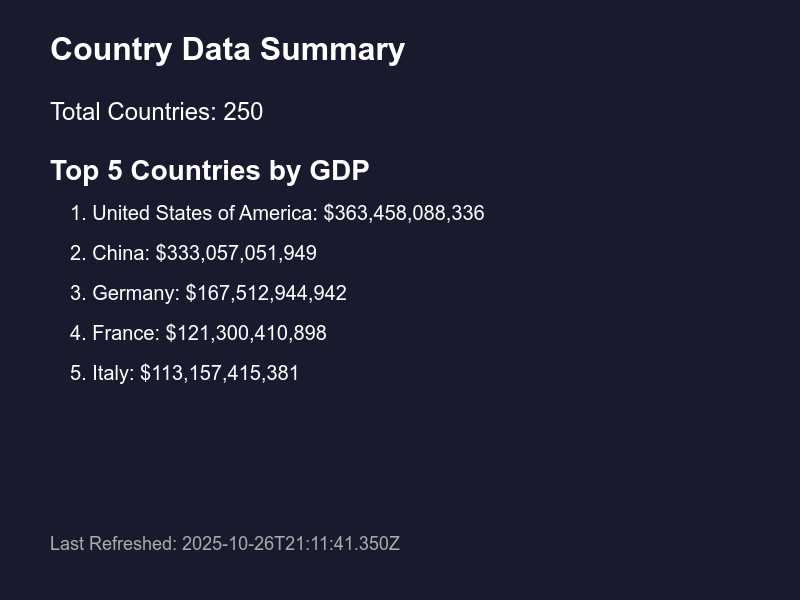
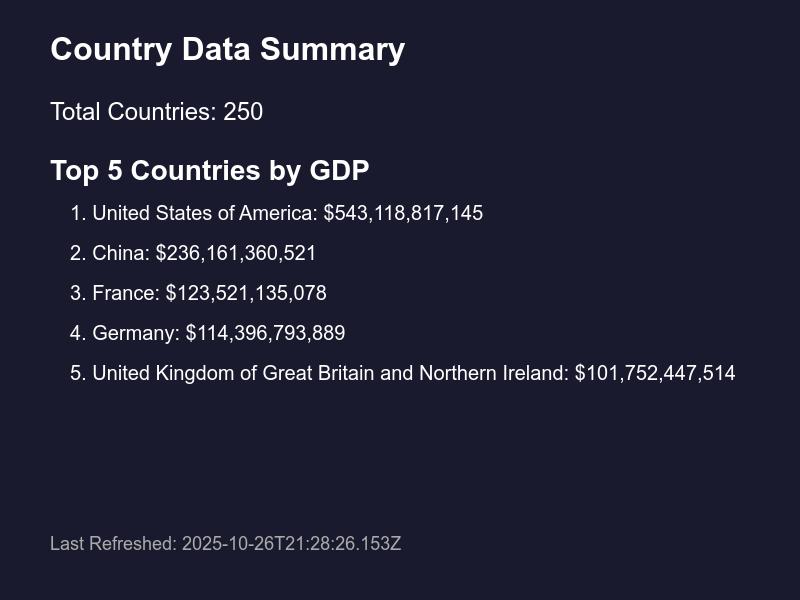
Fix: Transform response to snake_case format using class-transformer
- Add CountryResponseDto with @Expose() decorators
- Handle null values for exchange_rate and estimated_gdp
- Convert BigInt population to number
- Update controller to use response DTO

diff --git a/src/countries/dto/country-response.dto.ts b/src/countries/dto/country-response.dto.ts
@@ -1,0 +1,51 @@
+import { Expose } from 'class-transformer';
+import { Country } from '../entities/country.entity';
+
+export class CountryResponseDto {
+  @Expose()
+  id: number;
+
+  @Expose()
+  name: string;
+
+  @Expose()
+  capital: string;
+
+  @Expose()
+  region: string;
+
+  @Expose()
+  population: number;
+
+  @Expose()
+  currency_code: string | null;
+
+  @Expose()
+  exchange_rate: number | null;
+
+  @Expose()
+  estimated_gdp: number | null;
+
+  @Expose()
+  flag_url: string;
+
+  @Expose()
+  last_refreshed_at: Date;
+
+  constructor(entity: Country) {
+    this.id = entity.id;
+    this.name = entity.name;
+    this.capital = entity.capital;
+    this.region = entity.region;
+    this.population = Number(entity.population);
+    this.currency_code = entity.currencyCode;
+    this.exchange_rate = entity.exchangeRate
+      ? Number(entity.exchangeRate)
+      : null;
+    this.estimated_gdp = entity.estimatedGdp
+      ? Number(entity.estimatedGdp)
+      : null;
+    this.flag_url = entity.flagUrl;
+    this.last_refreshed_at = entity.lastRefreshedAt;
+  }
+}

diff --git a/src/countries/countries.controller.ts b/src/countries/countries.controller.ts
@@ -12,6 +12,7 @@ import {
 import { Response } from 'express';
 import { CountriesService } from './countries.service';
 import { QueryCountriesDto } from './dto/query-countries.dto';
+import { CountryResponseDto } from './dto/country-response.dto';
 
 @Controller('countries')
 export class CountriesController {
@@ -25,7 +26,8 @@ export class CountriesController {
   @Get()
   @UsePipes(new ValidationPipe({ transform: true }))
   async findAll(@Query() queryDto: QueryCountriesDto) {
-    return await this.countriesService.findAll(queryDto);
+    const countries = await this.countriesService.findAll(queryDto);
+    return countries.map((country) => new CountryResponseDto(country));
   }
 
   @Get('image')
@@ -36,7 +38,8 @@ export class CountriesController {
 
   @Get(':name')
   async findOne(@Param('name') name: string) {
-    return await this.countriesService.findOne(name);
+    const country = await this.countriesService.findOne(name);
+    return new CountryResponseDto(country);
   }
 
   @Delete(':name')
